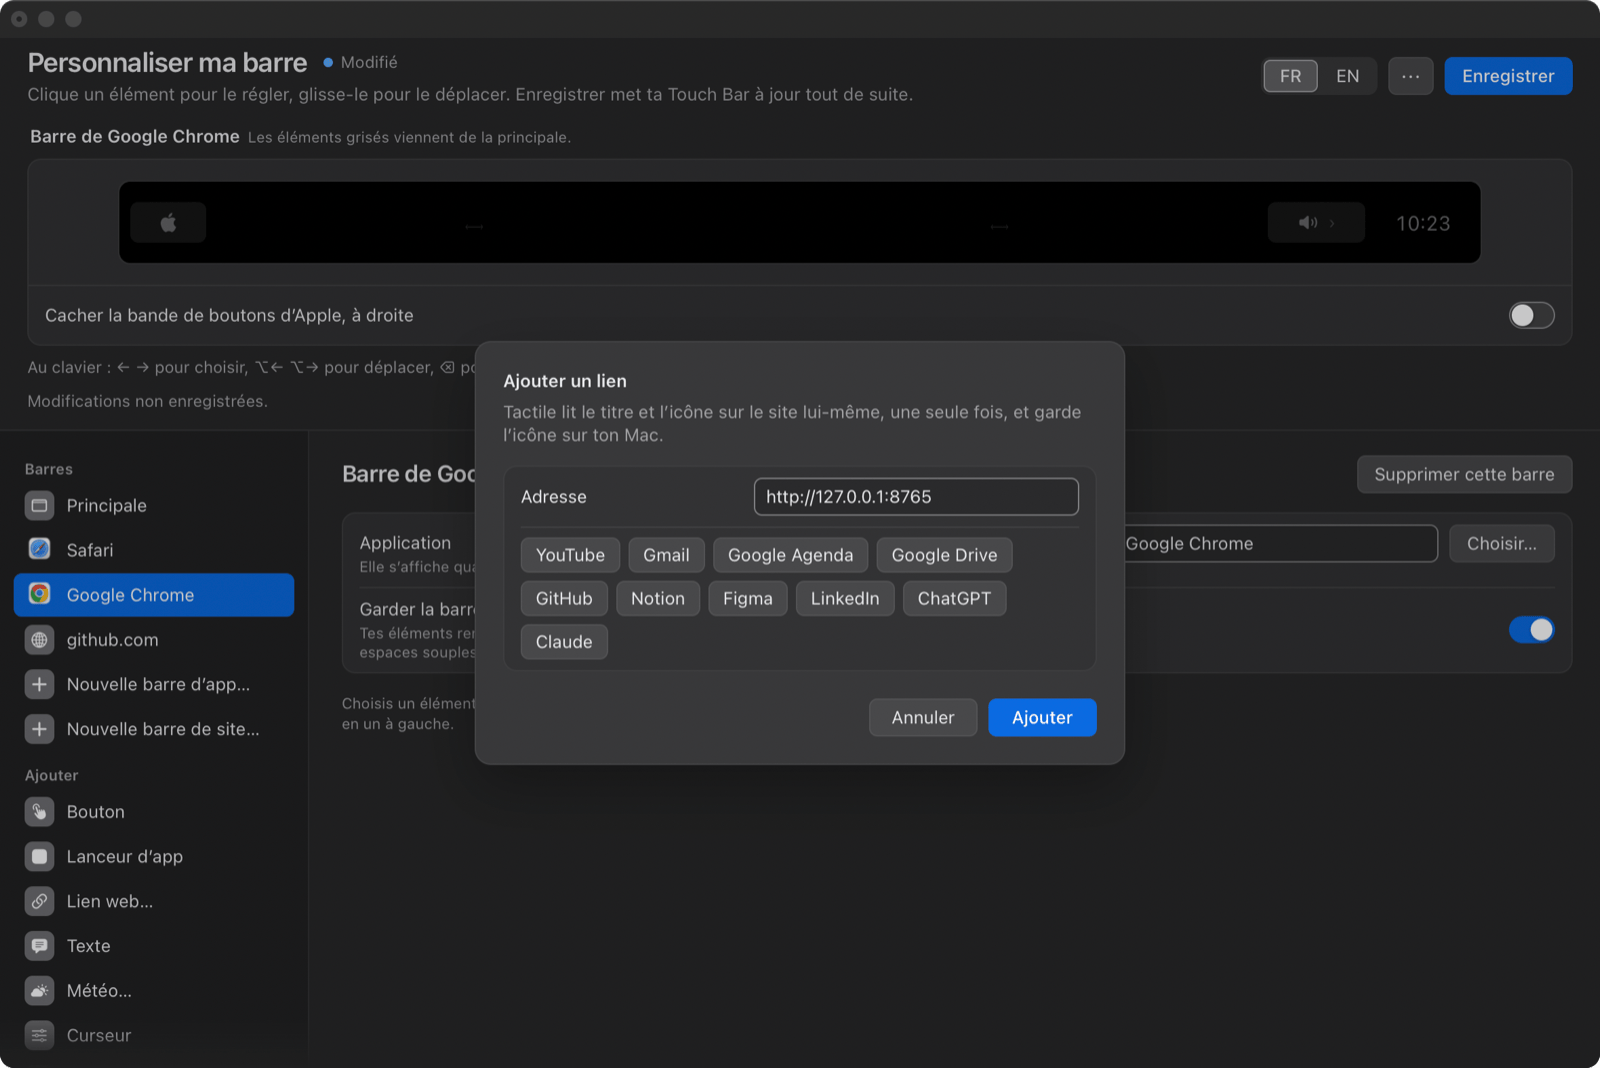
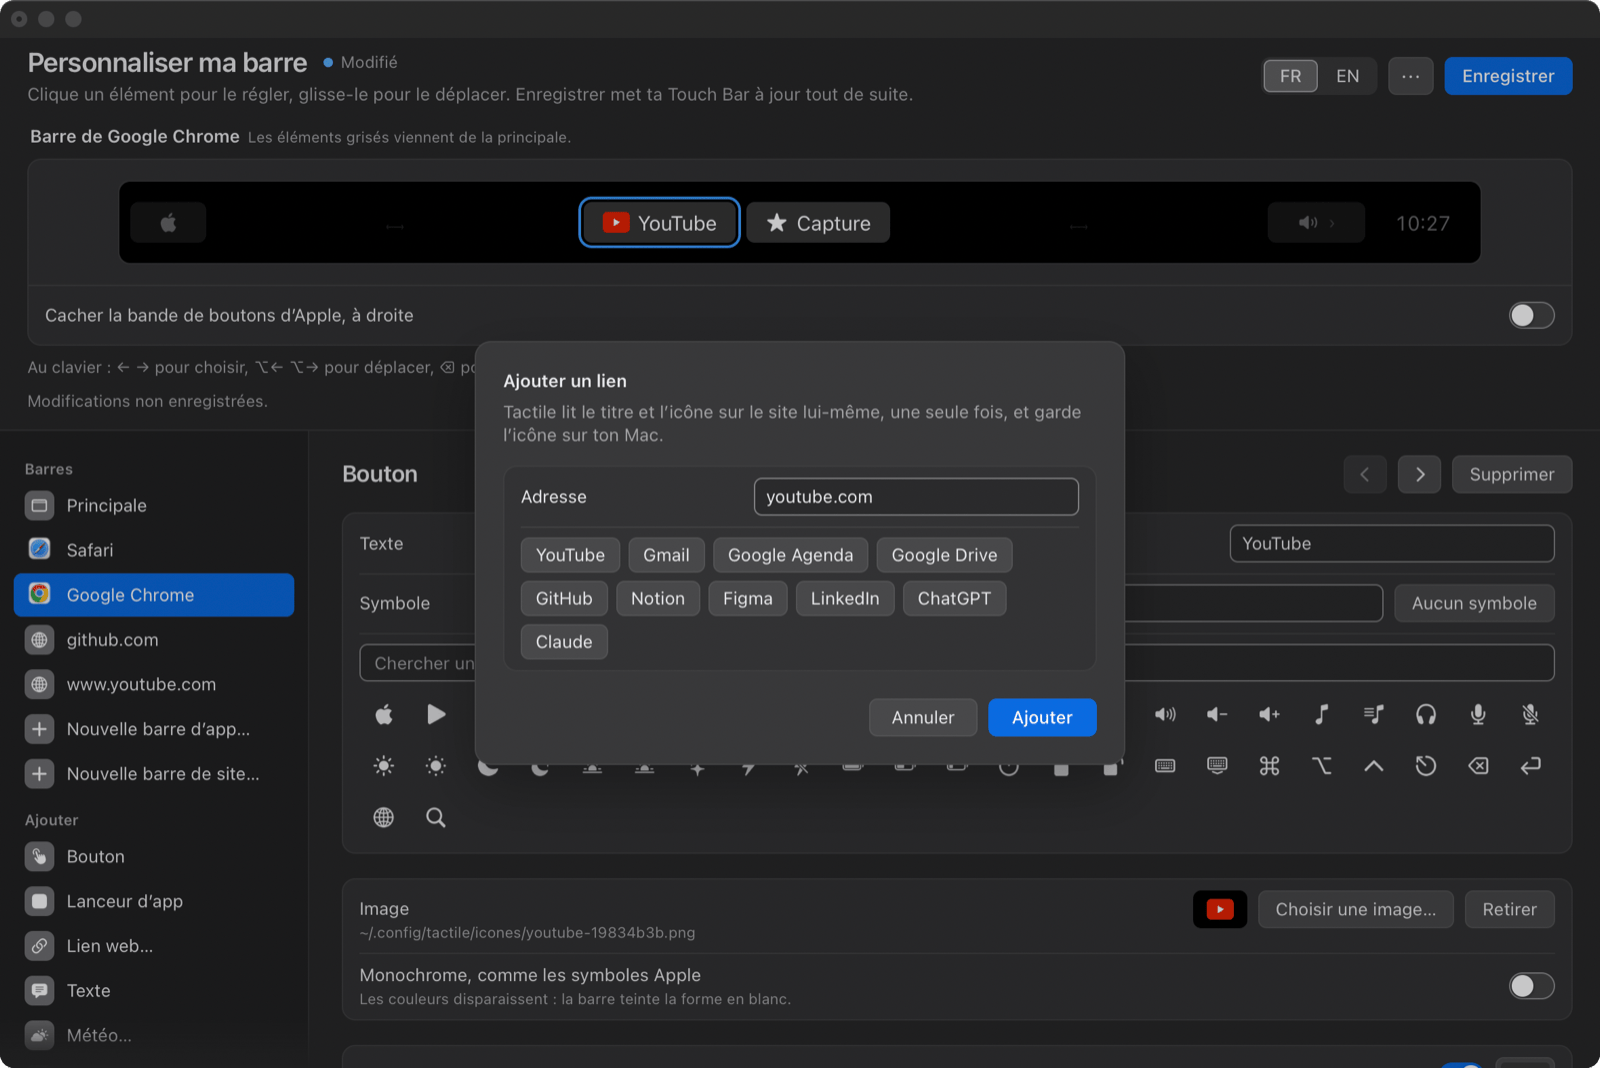
fix: un site distant ne peut pas faire lire une adresse locale (redirection ou icône) ; captures sans données de test
Claude-Session: https://claude.ai/code/session_01F5zcax6QngTrp6o3SE8jCv

diff --git a/src/editeur/liens.rs b/src/editeur/liens.rs
@@ -35,10 +35,25 @@ fn origine(url: &str) -> &str {
     &url[..url[debut..].find(['/', '?', '#']).map_or(url.len(), |i| debut + i)]
 }
 
-fn hote(url: &str) -> String {
+/// L'hôte seul (sans identifiants, port ni crochets), en minuscules.
+fn hote_brut(url: &str) -> String {
     let autorite = &origine(url)[url.find("://").map_or(0, |i| i + 3)..];
-    let h = autorite.rsplit('@').next().unwrap_or(autorite).split(':').next().unwrap_or(autorite);
-    h.strip_prefix("www.").unwrap_or(h).to_string()
+    let h = autorite.rsplit('@').next().unwrap_or(autorite).to_lowercase();
+    match h.strip_prefix('[') {
+        Some(v6) => v6.split(']').next().unwrap_or_default().to_string(),
+        None => h.split(':').next().unwrap_or_default().to_string(),
+    }
+}
+
+fn hote(url: &str) -> String {
+    let h = hote_brut(url);
+    h.strip_prefix("www.").unwrap_or(&h).to_string()
+}
+
+/// Cette machine : localhost et ses sous-domaines, 127.x.x.x, 0.0.0.0, ::1.
+fn locale(url: &str) -> bool {
+    let h = hote_brut(url);
+    h == "localhost" || h.ends_with(".localhost") || h == "0.0.0.0" || h == "::1" || (h.starts_with("127.") && h.bytes().all(|o| o.is_ascii_digit() || o == b'.'))
 }
 
 /// `href` résolu contre la page `base` (absolu, `//hôte`, `/chemin` ou relatif).
@@ -92,9 +107,12 @@ fn lire(url: &str, sortie: &Path, borner: bool, processus: &Processus) -> Result
 }
 
 /// Télécharge `url` dans `sortie` en suivant au plus `REDIRECTIONS` redirections ; rend l'adresse finale.
-fn telecharger(url: &str, sortie: &Path, borner: bool, processus: &Processus) -> Result<String, String> {
+fn telecharger(url: &str, sortie: &Path, borner: bool, distant: bool, processus: &Processus) -> Result<String, String> {
     let mut url = url.to_string();
     for _ in 0..=REDIRECTIONS {
+        if distant && locale(&url) {
+            return Err("adresse locale refusée : un site distant ne peut pas en désigner une".into());
+        }
         if !url_permise(&url) || suspecte(&url) {
             return Err(format!("« {} » refusée : seules les adresses https:// (et http://localhost) sont lues", url.chars().take(80).collect::<String>()));
         }
@@ -196,9 +214,9 @@ impl Drop for Temporaire {
 }
 
 /// Une icône du site, téléchargée, validée (`controler_image`, 1 Mo) puis copiée dans `icones/` : son chemin, ou `None`.
-fn icone(url: &str, hote: &str, dossier: &Path, tmp: &Path, processus: &Processus) -> Option<PathBuf> {
+fn icone(url: &str, hote: &str, dossier: &Path, tmp: &Path, distant: bool, processus: &Processus) -> Option<PathBuf> {
     let brut = tmp.join("icone.bin");
-    telecharger(url, &brut, true, processus).ok()?;
+    telecharger(url, &brut, true, distant, processus).ok()?;
     let octets = std::fs::read(&brut).ok().filter(|o| o.len() <= TAILLE_MAX)?;
     let fichier = tmp.join(format!("{hote}.{}", extension(&octets)?));
     std::fs::rename(&brut, &fichier).ok()?;
@@ -209,13 +227,15 @@ fn icone(url: &str, hote: &str, dossier: &Path, tmp: &Path, processus: &Processu
 /// Le bouton du lien. Sans icône trouvée, le symbole `globe`.
 pub(super) fn recuperer(saisie: &str, dossier: &Path, processus: &Processus) -> Result<Element, String> {
     let adresse = normaliser(saisie)?;
+    // Tapée par l'utilisateur, une adresse locale est permise ; une page distante, elle, ne mène jamais à cette machine.
+    let distant = !locale(&adresse);
     let tmp = Temporaire::nouveau()?;
     let page = tmp.0.join("page.html");
-    let finale = telecharger(&adresse, &page, false, processus)?;
+    let finale = telecharger(&adresse, &page, false, distant, processus)?;
     let octets: Vec<u8> = std::fs::read(&page).unwrap_or_default().into_iter().take(TAILLE_MAX).collect();
     let html = String::from_utf8_lossy(&octets).into_owned();
     let nom = hote(&finale);
-    let image = icones_de(&html, &finale).iter().find_map(|u| icone(u, &nom, dossier, &tmp.0, processus));
+    let image = icones_de(&html, &finale).iter().find_map(|u| icone(u, &nom, dossier, &tmp.0, distant, processus));
     Ok(Element::Bouton {
         texte: Some(titre(&html).unwrap_or(nom)),
         symbole: image.is_none().then(|| "globe".to_string()),
@@ -282,6 +302,27 @@ mod tests {
         assert_eq!(icones_de(html, "https://a.fr/p"), ["https://a.fr/t.png", "https://a.fr/f.ico", "https://a.fr/favicon.ico"]);
         assert_eq!(titre(&format!("<title>{}</title>", "x".repeat(40))).unwrap().chars().count(), 25);
         assert_eq!(titre("<p>rien"), None);
+    }
+
+    /// Un site distant ne fait pas lire un service de cette machine : ni par redirection, ni par l'adresse d'une icône.
+    #[test]
+    fn un_site_distant_ne_mene_pas_au_local() {
+        for local in ["http://localhost:3000/x", "https://localhost/x", "http://127.0.0.1:8080", "https://127.1.2.3/", "http://[::1]:80/", "https://app.localhost/", "http://0.0.0.0/", "https://user@localhost/"] {
+            assert!(locale(local), "{local}");
+        }
+        for distant in ["https://youtube.com", "https://localhost.example.org/", "https://example.org/127.0.0.1", "https://notlocalhost.fr"] {
+            assert!(!locale(distant), "{distant}");
+        }
+        let serveur = serveur(|chemin| match chemin {
+            "/ancien" => (301, "Location: /\r\n".into(), vec![]),
+            _ => (200, String::new(), b"x".to_vec()),
+        });
+        let (tmp, p) = (std::env::temp_dir().join(format!("tactile-distant-{}", std::process::id())), processus());
+        std::fs::create_dir_all(&tmp).unwrap();
+        // Départ local (l'utilisateur l'a tapé) : la redirection locale passe. Départ distant : le local est refusé.
+        assert!(telecharger(&format!("{serveur}/ancien"), &tmp.join("a"), false, false, &p).is_ok());
+        assert_eq!(telecharger(&format!("{serveur}/ancien"), &tmp.join("b"), false, true, &p).unwrap_err(), "adresse locale refusée : un site distant ne peut pas en désigner une");
+        std::fs::remove_dir_all(&tmp).unwrap();
     }
 
     #[test]
